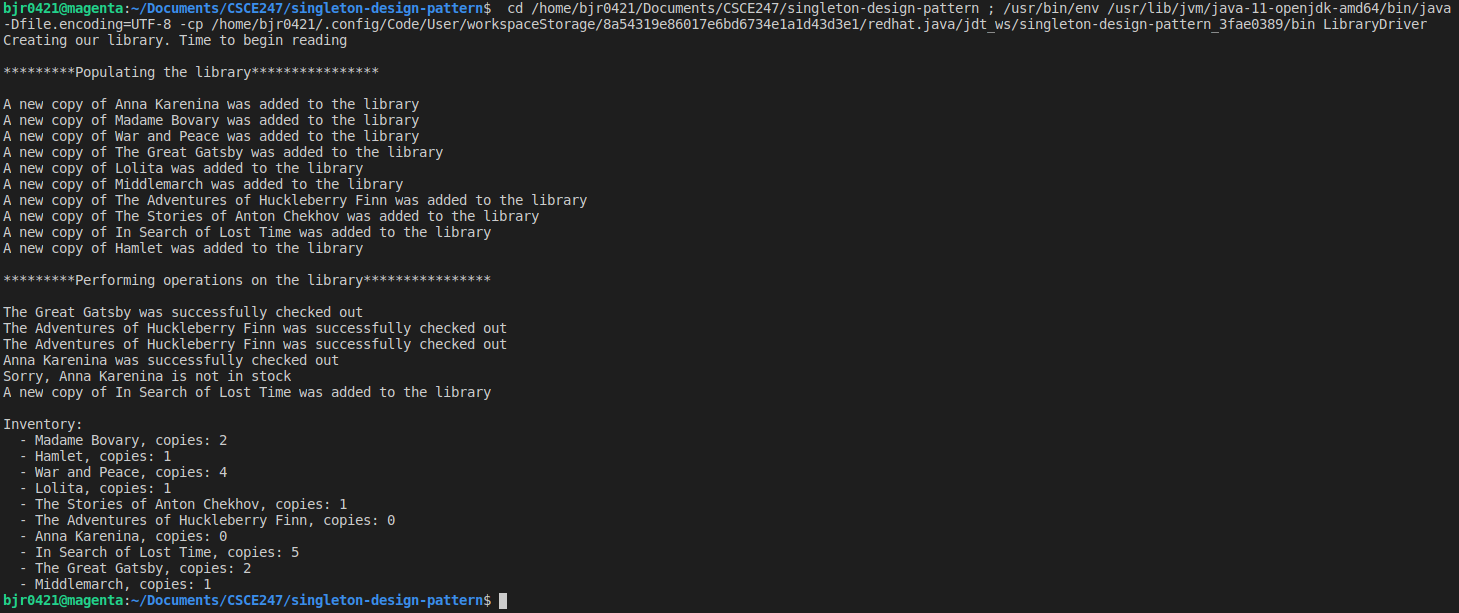
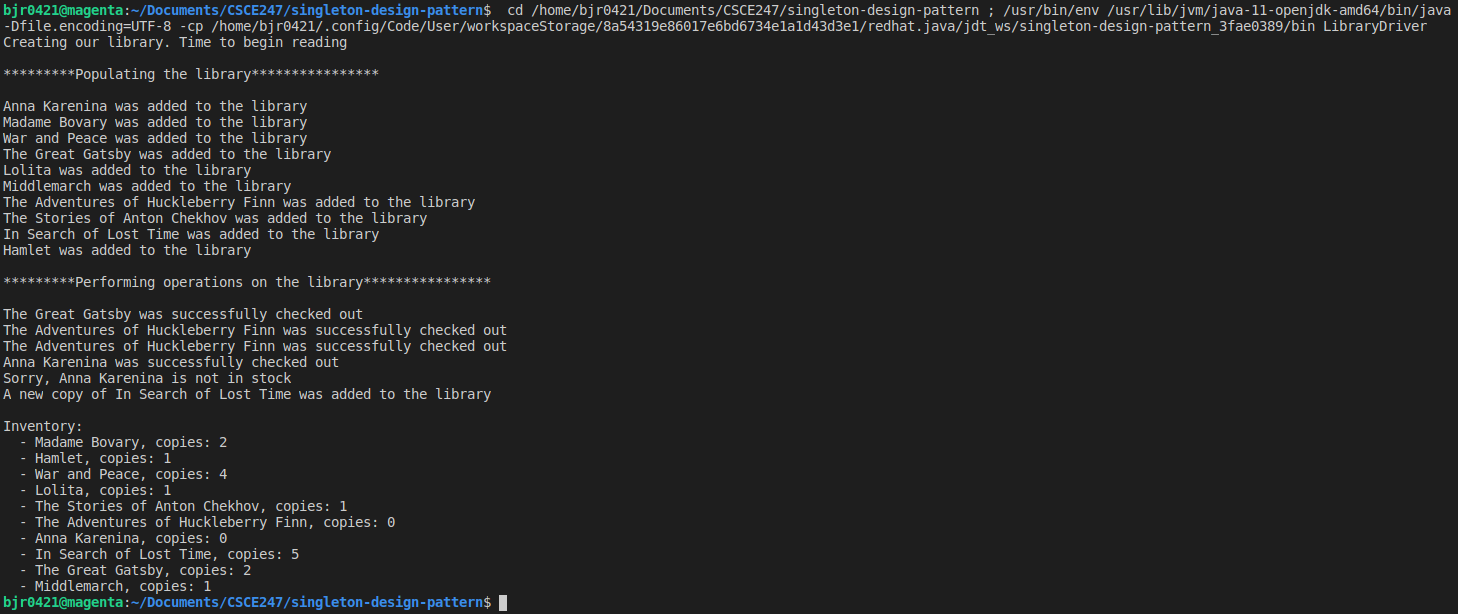
fixed design issue, updated output img

Changed region(s): [[0.0, 0.0, 1.0, 0.4649], [0.0, 0.6819, 0.3395, 0.9918], [0.0, 0.4959, 0.3704, 0.6509]]

diff --git a/Library.java b/Library.java
@@ -46,10 +46,12 @@ public class Library {
     public void checkInBook(String bookName, int numToAdd) {
         if (books.containsKey(bookName)) {
             books.put(bookName, books.remove(bookName)+numToAdd);
+            System.out.println("A new copy of " + bookName + " was added to the library");
         } else {
             books.put(bookName, numToAdd);
+            System.out.println(bookName + " was added to the library");
         }
-        System.out.println("A new copy of " + bookName + " was added to the library");
+        //System.out.println("A new copy of " + bookName + " was added to the library");
     }
 
     /**
